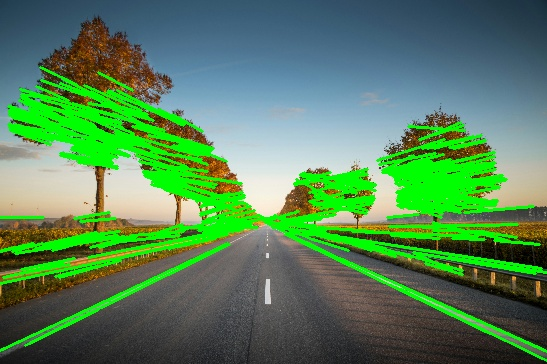
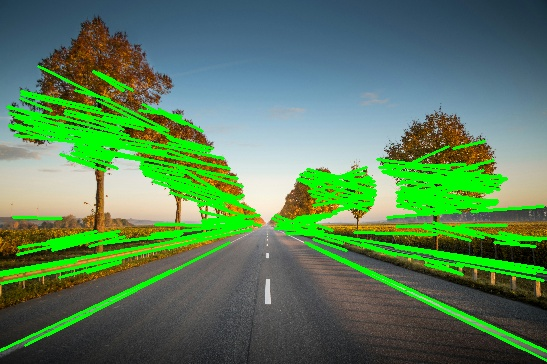
임계값 변경

diff --git a/day06/hough_line_test.py b/day06/hough_line_test.py
@@ -19,7 +19,7 @@ edges = cv.Canny(gray, 240, 250, apertureSize=3)
 
 # 4단계: Hough Line Transform (선분 방식)
 lines = cv.HoughLinesP(edges, rho=1, theta=np.pi/180,
-                       threshold=50, minLineLength=30, maxLineGap=10)
+                       threshold=70, minLineLength=30, maxLineGap=10)
 
 # 5단계: 검출된 직선을 이미지에 그리기
 result = img_resized.copy()
